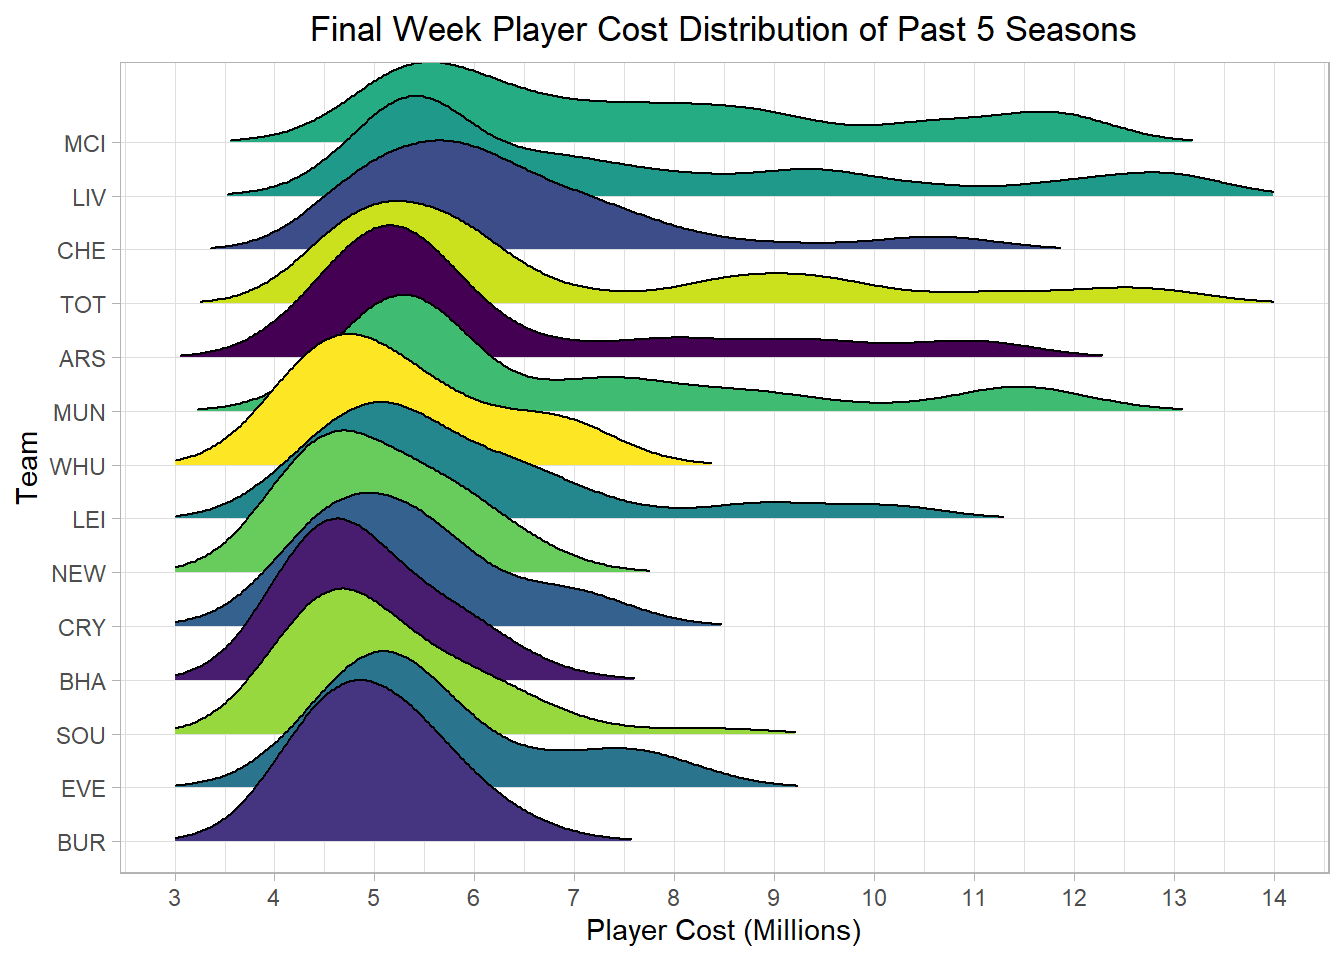
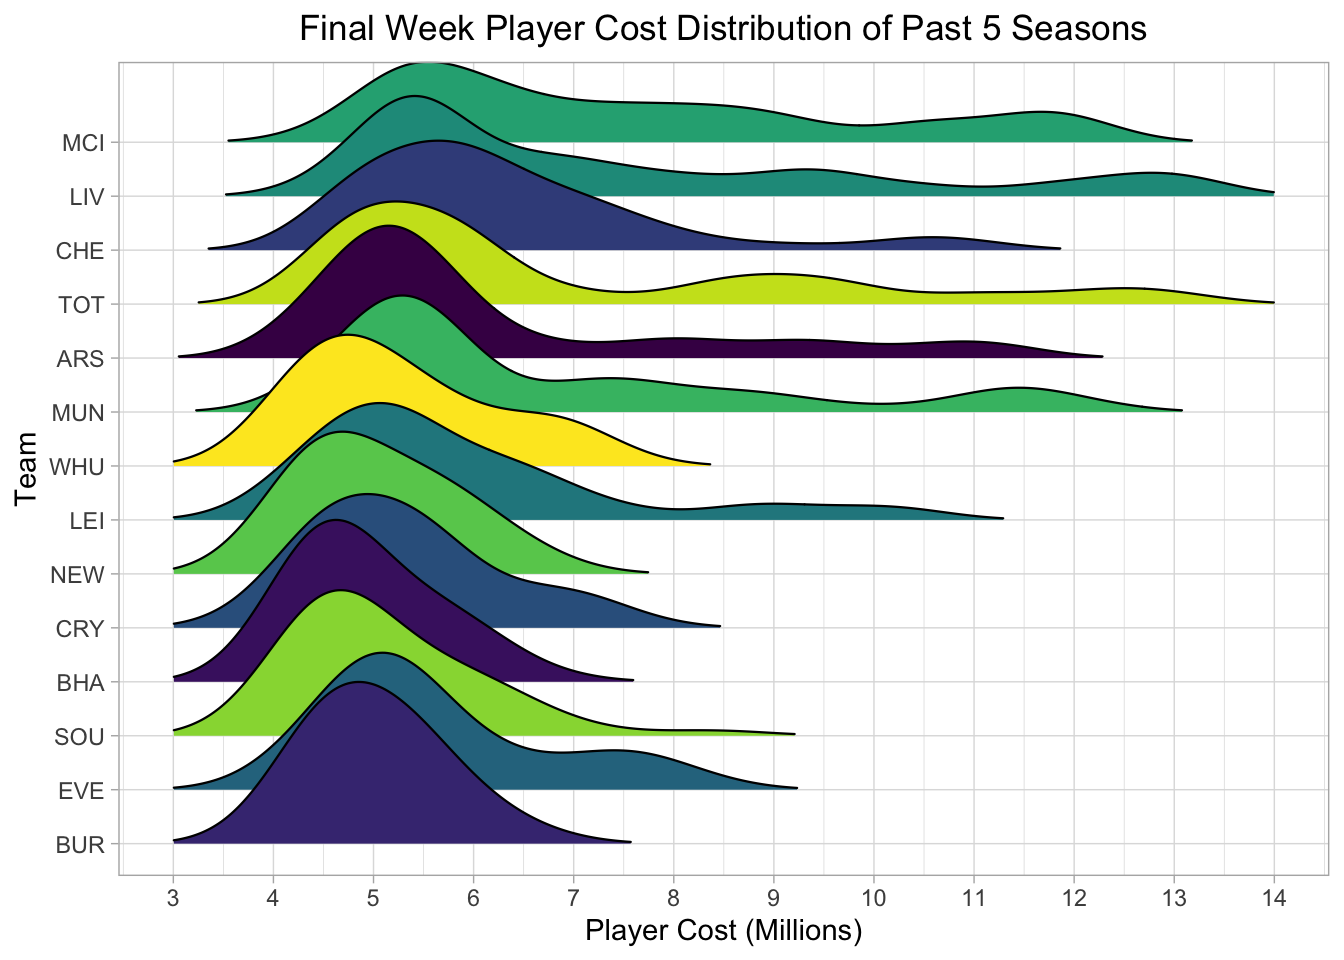
Alan Update

diff --git a/docs/results.html b/docs/results.html
@@ -140,7 +140,7 @@
 <h3><span class="header-section-number">4.1.2</span> Vizualizing The Problem<a href="results.html#vizualizing-the-problem" class="anchor-section" aria-label="Anchor link to header"></a></h3>
 <p>To understand relationship between the total points scored in a season and the soccer player cost, we have produced a scatter plot of the two variables. As can be seen from the graph, there is a positive correlation between total points and soccer player cost. This is expected as soccer players who score more points are more valuable, hence their cost should increase. However, there are large deviations from the correlation shown in the best fit line. If a soccer player lies above the best fit line, it shows that they have a high points per cost output and consequently are undervalued. Likewise, if a player lies below the best fit line, they have a low points per cost output and are overvalued. Therefore, moving forward our analysis will investigate if there are patterns which lead to players being above or below this best fit line.</p>
 <p>In the graph, there is no clear trend showing that the number of points a player scores in a season depends on the year. In other words, in further analysis we may assume that soccer player performance statistics are time-independent. Further, it must be noted that the 2019 analysis has been excluded from the plot as the final week of the season was missing from the data source (as discussed in the missing data analysis).</p>
-<p>A final point to add about the graph is the fact that the best fit line, calculated using a loess smoothing, shows the gradient is steeper before £6 million and shallower after. This indicates that there could be an element of diminishing reuturns of value when choosing more expensive soccer players.</p>
+<p>A final point to add about the graph is the fact that the best fit line, calculated using a loess smoothing, shows the gradient is steeper before £6 million and shallower after. This indicates that there could be an element of diminishing returns of value when choosing more expensive soccer players.</p>
 <p><img src="finalproj_files/figure-html/unnamed-chunk-8-1.png" width="672" style="display: block; margin: auto;" /></p>
 </div>
 <div id="player-value-by-position" class="section level3 hasAnchor" number="4.1.3">
@@ -152,7 +152,7 @@
 <div id="key-indicators-of-player-value-by-position" class="section level4 hasAnchor" number="4.1.3.1">
 <h4><span class="header-section-number">4.1.3.1</span> Key Indicators of Player Value By Position<a href="results.html#key-indicators-of-player-value-by-position" class="anchor-section" aria-label="Anchor link to header"></a></h4>
 <p><strong>How Different Players Score Points</strong></p>
-<p>From our analysis so far, we have found that the median point per cost does not vary much across position. We have also found that forwards are less likely to be undervalued but also less likely to be overvalues, while it is the opposite for defenders. With this in mind, our next question looks to identify what traits one should look for when determining the value of defenders, midfielders and forwards.</p>
+<p>From our analysis so far, we have found that the median point per cost does not vary much across position. We have also found that forwards are less likely to be undervalued but also less likely to be overvalued, while it is the opposite for defenders. With this in mind, our next question looks to identify what traits one should look for when determining the value of defenders, midfielders and forwards.</p>
 <p>In the parallel coordinates plot, we see that there are 3 distinct clusters for how soccer players score points and these clusters follow position categories. With defenders, we see that they score few points from goals and assists, but a lot of points from having clean sheets (a clean sheet occurs when a team does not concede a goal during a game). Looking at midfielders and forwards, we see that most of their points come from goals and assists. Moreover, in terms of clean sheets for midfielders, they get relatively few and for forwards they get zero points from clean sheets (which is explained as forwards cannot score points from clean sheets). Focusing on bonus points, we have no evidence suggesting that certain positions score more bonus points than others. This leads us to the conclusion that it is best to evaluate defenders based on clean sheets, while we should judge midfielders and forwards based on goals and assists.</p>
 <p>An interesting point to note is that the soccer players with the most points from goals scored are midfielders, differing from the expectation that forwards score the most points from goals. One explanation for this could be that when a forward scores a goal they receive 4 points, while midfielders receive 5. However, deeper analysis reveals that these midfield players are Salah, Mane and Son. It could be argued that these soccer players should be classified as forwards because they sometimes play the striker position. Hence, one could conclude that these top scoring players in terms of points from goals occur because the players are misclassified as midfielders rather than strikers and therefore receive 5 points per goal rather than 4. This indicates that a strategy to pick undervalued players is to pick players like Salah, Mane and Son who play as wingers/strikers but are classified as midfielders in the FPL game.</p>
 <p><img src="finalproj_files/figure-html/unnamed-chunk-10-1.png" width="672" style="display: block; margin: auto;" /></p>
@@ -171,8 +171,7 @@
 <p><img src="finalproj_files/figure-html/unnamed-chunk-13-1.png" width="672" style="display: block; margin: auto;" /></p>
 <p>In the ridge graph above, we plotted the distribution of soccer player cost in FPL in the last week of the 2017 - 2021 seasons, as Cost in the last week reflects the player’s performance over the course of the entire season.</p>
 <p>For clarity, we ordered the teams in the ridge graph by their record at the end of the 2021 season, with MCI finishing in first, and BUR finishing at the bottom. An important feature of the English Premier League is that the worst three teams are kicked out at the end of the season. So, while the top teams are competing to win the league, the bottom teams are fighting to avoid being demoted. For consistency, we chose to include only the teams which played in the league every year between 2017 and 2021.</p>
-<p>What we see in the graph is reflective of reality, that the soccer players on the bottom of the bottom teams are mostly concentrated around a mean of £4-5 million, but as you climb up the board, the mean shifts to between £5-6 million, and the tails get longer and longer. In fact, the top performing teams appear to have multi-modal distributions in which subsets of their are very expensive.
-Using the previous analysis that the the best soccer players cost the most, this follows the claim that the best performing soccer teams have the best performing soccer players.</p>
+<p>What we see in the graph is reflective of reality, that the soccer players on the bottom of the bottom teams are mostly concentrated around a mean of £4-5 million, but as you climb up the board, the mean shifts to between £5-6 million, and the tails get longer and longer. In fact, the top performing teams appear to have multi-modal distributions in which subsets of their team are very expensive; the top performing teams have multiple high cost superstars. Using the previous analysis that the the best soccer players cost the most, this follows the claim that the best performing soccer teams have the best performing soccer players who also cost the most.</p>
 <p>Overall, we see that there is a clear association between teams with higher records and Cost of soccer players on those teams. Given the winning teams are those that score more a lot of goals and do not concede many, it’s not surprising that fantasy points, and thus Cost are concentrated on those teams.</p>
 <p><a href="https://theathletic.com/3476123/2022/08/10/premier-league-wages-growth-tax-top-earners/" class="uri">https://theathletic.com/3476123/2022/08/10/premier-league-wages-growth-tax-top-earners/</a></p>
 <p><strong>How about Cost per Point for Teams? </strong></p>
@@ -200,7 +199,7 @@ Using the previous analysis that the the best soccer players cost the most, this
 <h3><span class="header-section-number">4.2.2</span> Can We Buy Low &amp; Sell High?<a href="results.html#can-we-buy-low-sell-high" class="anchor-section" aria-label="Anchor link to header"></a></h3>
 <p>As discussed earlier, the strategy in winning FPL lies in being able to find the low Cost players which provide the highest number of points. In trying to identify these bargain players, we wanted to see which soccer players over the course of the season had their prices go up the most, and conversely, those whose prices went down the most.</p>
 <p>In all, there was far less movement in player Cost than anticipated. For the past three seasons, the top 10 highest Cost players at the beginning of the season were also the top 10 highest Cost players at the end of the season, indicating that player costs to not vary too much.</p>
-<p>Qunatifying this, we found that about 75% of players have Costs which vary less than +/- £200,000 over the course of the entire season. As such, we decided to graph the “Costs” of players over the 2021 season whose price went up or down by £300,000 or more.</p>
+<p>Quantifying this, we found that about 75% of players have Costs which vary less than +/- £200,000 over the course of the entire season. As such, we decided to graph the “Costs” of players over the 2021 season whose price went up or down by £300,000 or more.</p>
 <p>On the first chart, we see soccer players that experienced a cumulative Cost decrease of £300k, or more, from their original pricing at any point during the season. As you might notice, there is a large drop in Week 1 for almost every player. For background research, FPL users choose their team during the summer, before any soccer games have been played. As such, soccer player Costs when initially chosen are based on last year’s performance. The large swing in Costs in Week 1 can be interpreted as users reacting to the first week of games of the current season.</p>
 <p>For comparison sake, we colored the lines based on whether the soccer player’s Week 37 Cost (last game of the season) was greater than Week 1. In other words, whether the soccer player’s valuation recovered from the initial jolt of their Week 1 performance. Interestingly enough, you’ll notice that all players except for one (which came out neutral) were in fact valued higher at the end of the season.</p>
 <p>In our view, the rising Costs for a player signals that they were previously undervalued, or that the Cost/Points ratio was off relative to other players, and required correction. As such, picking a player on the upswing, at their lowest Cost point during the season, is directly equivalent to picking the player when they are most undervalued. Like stocks, we want to get in at the lowest point, and ride it to the top, which translates to the user theoretically benefiting from a lower than market rate Cost/Point ratio until the soccer player’s Cost peaks.</p>
@@ -214,10 +213,11 @@ Using the previous analysis that the the best soccer players cost the most, this
 </div>
 <div id="correlation-between-cost-selected-by-percentage" class="section level2 hasAnchor" number="4.3">
 <h2><span class="header-section-number">4.3</span> Correlation Between Cost &amp; Selected By Percentage<a href="results.html#correlation-between-cost-selected-by-percentage" class="anchor-section" aria-label="Anchor link to header"></a></h2>
-<p>Another angle we approached the project question from was trying to find a pattern with Selected By Percentage because if we find soccer players that aren’t picked by many FPL users, we could benefit more from their points.</p>
-<p>From our research, we found that Selected By Percentage is a driver of player cost. For example, if a lot of FPL users choose a soccer player, his demand is high, so his Cost increases. Therefore, we decided to plot a scatter plot of total points against Selected By Percentage to explore any potential trends. However, as can be seen in the graph, there is no obvious pattern in the data.</p>
+<p>Another angle we approached the project question from was trying to find a pattern with Selected By Percentage because if we find soccer players that aren’t picked by many FPL users, we could benefit more from their points (since if you pick a player that everyone else has, everyone is benefited and it does not help you get ahead to win). Therefore, we decided to plot a scatter plot of total points against Selected By Percentage to explore any potential trends. From the initial interpretation of the graph we find weak relationship between Selected By Percentage and Total Points per Cost, those who are highest selected also were more likely to have a higher Total Points per Cost, and this is unsurprising since only enthusiasts and die-hard fans of the sport play the Fantasy game, it is very likely that they have a good intuition for who are value picks, or perhaps the competitive nature of the game would even push some to perform numerical analysis, much like what we are doing right now. From the graph one can see that there are many points with high Total Point per Cost and low Selected By Percentage, which means that there are many good value player who remain less selected and are not as well identified to the fan base.</p>
+<p>From our contextual and outside-of-the-data research, we found that Selected By Percentage is a driver of player cost. Therefore, since the graph does not consider the kinetics of the cost and the Total Points per Cost plotted is an average over the season, and the player could be selected anytime, the graph ultimately is not very insightful.</p>
 <p><img src="finalproj_files/figure-html/unnamed-chunk-20-1.png" width="672" style="display: block; margin: auto;" /></p>
-<p>However, when plotting the weekly change in cost of the top 7 most expensive players in FPL during 2021 next to the weekly Selected By Percentage of these soccer players by FPL users, we see evidence of correlations between the two. For example, in Week 23 we see the Cost and Selected By Percentage of dip, while we see a peak for Ronaldo. With this in mind, one avenue of further work could look into the correlation between total points and Selected By Percentage because we know there is a positive correlation between total points and cost and there may be another positive correlation between cost and Selected By Percentage. Therefore, an indicator for player value could be a ratio between Selected By Percentage and Total Points</p>
+<p>So to explorer the relationship between Cost and Percentage Selected By over time, both variables are plotted against time in Game Week on a shared interval x-axis. When plotting the weekly change in cost of the top 7 most expensive players in FPL during 2021 next to the weekly Selected By Percentage of these soccer players by FPL users, we see evidence of correlations between the two, as week where the Cost goes up, the Percentage Selected By also goes up. This is very interesting as since if the Selected By is on the weekly basis impacted by cost, we would expect a rising cost to not increase the Percentage By rate, or even decreasing the picked by rate, but this was not observed, both the Cost and Pertage By went up at the same time, meaning that a soccer player could have done well, so his cost went up, but people also wanted said player on the team by the Fear of Missing Out (FOMO) Effect, so despite an increasing cost, said player is also picked more in anticipation for future good performances. The Cost and Percentage By also showed minimal “phase lag” behavior where one increase/decrease will cause another to increase/decrease a week or two later, hinting that while both variables may be positively correlated, they may also be confounding to a third variable at the same time.</p>
+<p>With this in mind, one avenue of further work could look into the correlation between average points per week up to the current week and Selected By Percentage with respective to time for all 37 weeks to see how the selection rate is impacted by marginal weekly performance.</p>
 <p><img src="finalproj_files/figure-html/unnamed-chunk-22-1.png" width="672" style="display: block; margin: auto;" /></p>
 
 </div>

diff --git a/docs/data.html b/docs/data.html
@@ -130,18 +130,22 @@
 <h1><span class="header-section-number">Chapter 3</span> Data<a href="data.html#data" class="anchor-section" aria-label="Anchor link to header"></a></h1>
 <div id="sources" class="section level2 hasAnchor" number="3.1">
 <h2><span class="header-section-number">3.1</span> Sources<a href="data.html#sources" class="anchor-section" aria-label="Anchor link to header"></a></h2>
-<p>Source: <a href="http://fantasyoverlord.com/FPL/History" class="uri">http://fantasyoverlord.com/FPL/History</a>
-Season stats for 2016 to 2021 season</p>
+<p>As described in Section 2.2 Data Availability, all available CSV files of athletes’ performance for any week in Seasons 2017, 2018, 2019, 2020, and 2021 can be found in the link below. All data downloaded for use can also be found in the Data folder.</p>
+<p>Source: <a href="http://fantasyoverlord.com/FPL/History" class="uri">http://fantasyoverlord.com/FPL/History</a></p>
 </div>
 <div id="cleaning-transformation" class="section level2 hasAnchor" number="3.2">
 <h2><span class="header-section-number">3.2</span> Cleaning / transformation<a href="data.html#cleaning-transformation" class="anchor-section" aria-label="Anchor link to header"></a></h2>
-<p>The code we used for data cleaning and transformation can be seen in the “combine_data.Rmd” file. Our data for each season is parsed across one file for each week, as such the first step in our transformation process was to compile all of the weeks and seasons into one dataset.</p>
-<p>The `import_columns’ list shows the variables from each weekly data set that we compiled. In lines 32-47, we loop through each file, retain the desired columns, and append the observations to a master dataframe. From the filename of each weekly data set, we added a match week (‘Week’) column, as well as distinguished the season (‘Year’). Lastly, we converted fields from strings to numerics for later calculations.</p>
+<p>The code we used for data cleaning and transformation can be viewed in the “combine_data_v2.Rmd” file. Our data for each season is parsed across one file for each week, as such the first step in our transformation process was to compile all of the weeks and seasons into one dataset.</p>
+<p>The `import_columns’ list shows the variables from each weekly data set that we compiled. In lines 32-47, we loop through each file, retain the desired columns, and append the observations to a master dataframe. From the filename of each weekly data set, we added a match week (‘Week’) column, as well as distinguished the season (‘Year’). Lastly, we converted field types of numerical fields from strings to numerics for use and later calculations.</p>
+<p>The resulting dataframe is saved as a .CSV in Data/main with the name “master.csv.”</p>
+<p>[maybe talk about the filter cut and the point caculation here]</p>
 </div>
 <div id="missing-value-analysis" class="section level2 hasAnchor" number="3.3">
 <h2><span class="header-section-number">3.3</span> Missing value analysis<a href="data.html#missing-value-analysis" class="anchor-section" aria-label="Anchor link to header"></a></h2>
-<p><img src="finalproj_files/figure-html/unnamed-chunk-50-1.png" width="672" style="display: block; margin: auto;" /></p>
-<p><img src="finalproj_files/figure-html/unnamed-chunk-53-1.png" width="672" style="display: block; margin: auto;" /></p>
+<p>With all CSV files imported, merged, and verified for tidy, we know what an ideal dataset should look like – a dataframe with where observations of athlete performance should exists for every season between 2017 and 2021 for every week in those seasons. We then proceed to visualize the availability of our data over each season and week by showing tiles where they exist, so we can have an understanding of the distribution of observations over Season and Week. In the graph show, we can see that we can missing a few select seemingly random weeks in 2019 and 2020, but in 2019 we also observe that there is a missing pattern where every week after 32, with the exception of 35, is missing. Taking the data to context, one can realize that the missing data from the end of the 2019 season is due to the emergence of Covid-19. With knowledge of what weeks we are missing, we proceed forward in the analysis.</p>
+<p><img src="finalproj_files/figure-html/unnamed-chunk-6-1.png" width="672" style="display: block; margin: auto;" /></p>
+<p>Leveraging the source code of the “plot_missing” function for modification, the missing patterns in the dataset is plotted, showing the affected variables and the percent rows and percent rows missing. We find that about 90% of the data is complete and fully populated. Out of the last 10%, all of them are missing the entry for the first name of the players, and an indiscernible small number of rows are showing a missing pattern of missing YellowCards, CleanSheets, Assists, SelectedByPercent, OwnGoals, MinutesPlayed, and RedCards. Since the first names of the players present little value when the last names are present (since last names in the premier league are usually unique), the data we have on the weeks where available are effectively fully complete for the purpose of our analysis.</p>
+<p><img src="finalproj_files/figure-html/unnamed-chunk-9-1.png" width="672" style="display: block; margin: auto;" /></p>
 
 </div>
 </div>

diff --git a/docs/interactive-component.html b/docs/interactive-component.html
@@ -128,9 +128,8 @@
             <section class="normal" id="section-">
 <div id="interactive-component" class="section level1 hasAnchor" number="5">
 <h1><span class="header-section-number">Chapter 5</span> Interactive component<a href="interactive-component.html#interactive-component" class="anchor-section" aria-label="Anchor link to header"></a></h1>
-<iframe src="https://vizhub.com/ss16318/6616a87ab9804c019508afacd8e4e0ca?edit=files" width="672" height="400px" data-external="1">
-</iframe>
 <p><a href="https://vizhub.com/ss16318/6616a87ab9804c019508afacd8e4e0ca?edit=files">Click Here To See Vizualization</a></p>
+<p>When the total number of points per player is plotted over the cost of that player in a scatter graph, one can see a clear positive correlation such that player who earn more points cost more. However, given what we know about Simpson’s Paradox, there correlation may not be true if we were to segregate the scatter plot by athlete position on the team. Therefore, there is motivation to see if the same positive correlation is retained when we consider for whether if the players are defenders, midfielders, or forwards.</p>
 
 </div>
             </section>

diff --git a/docs/conclusion.html b/docs/conclusion.html
@@ -128,6 +128,10 @@
             <section class="normal" id="section-">
 <div id="conclusion" class="section level1 hasAnchor" number="6">
 <h1><span class="header-section-number">Chapter 6</span> Conclusion<a href="conclusion.html#conclusion" class="anchor-section" aria-label="Anchor link to header"></a></h1>
+<p>[MAIN TAKEAWAYS]</p>
+<p>[LIMITATIONS]</p>
+<p>[FUTURE DIRECTIONS]</p>
+<p>[LESSONS LEARNED]</p>
 
 </div>
             </section>
